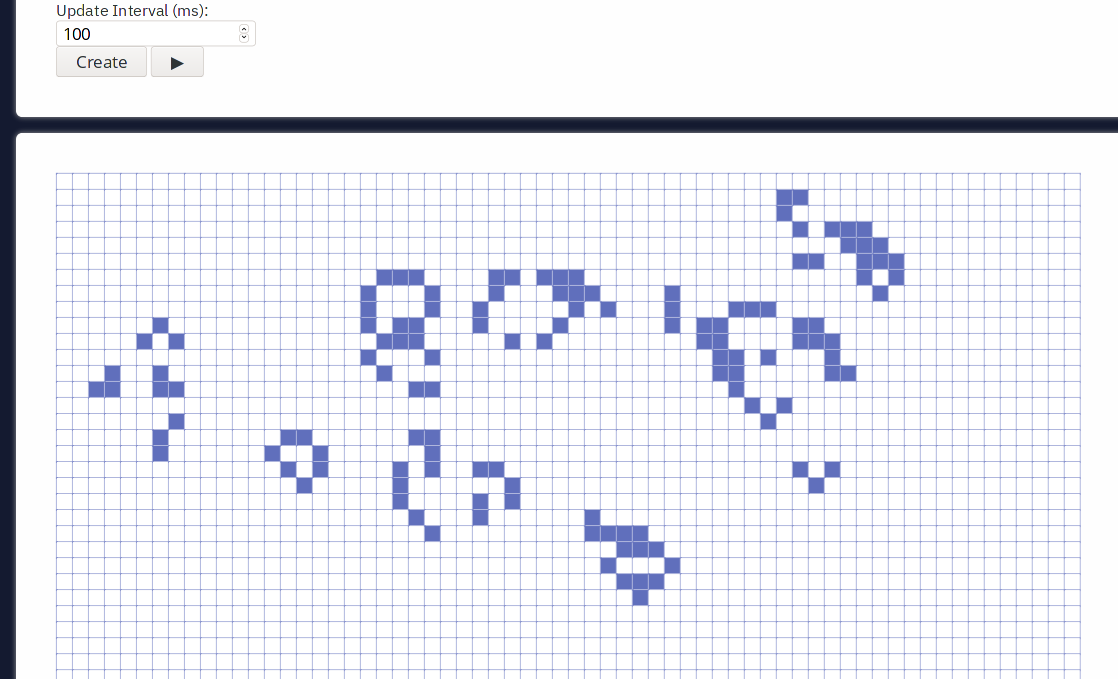
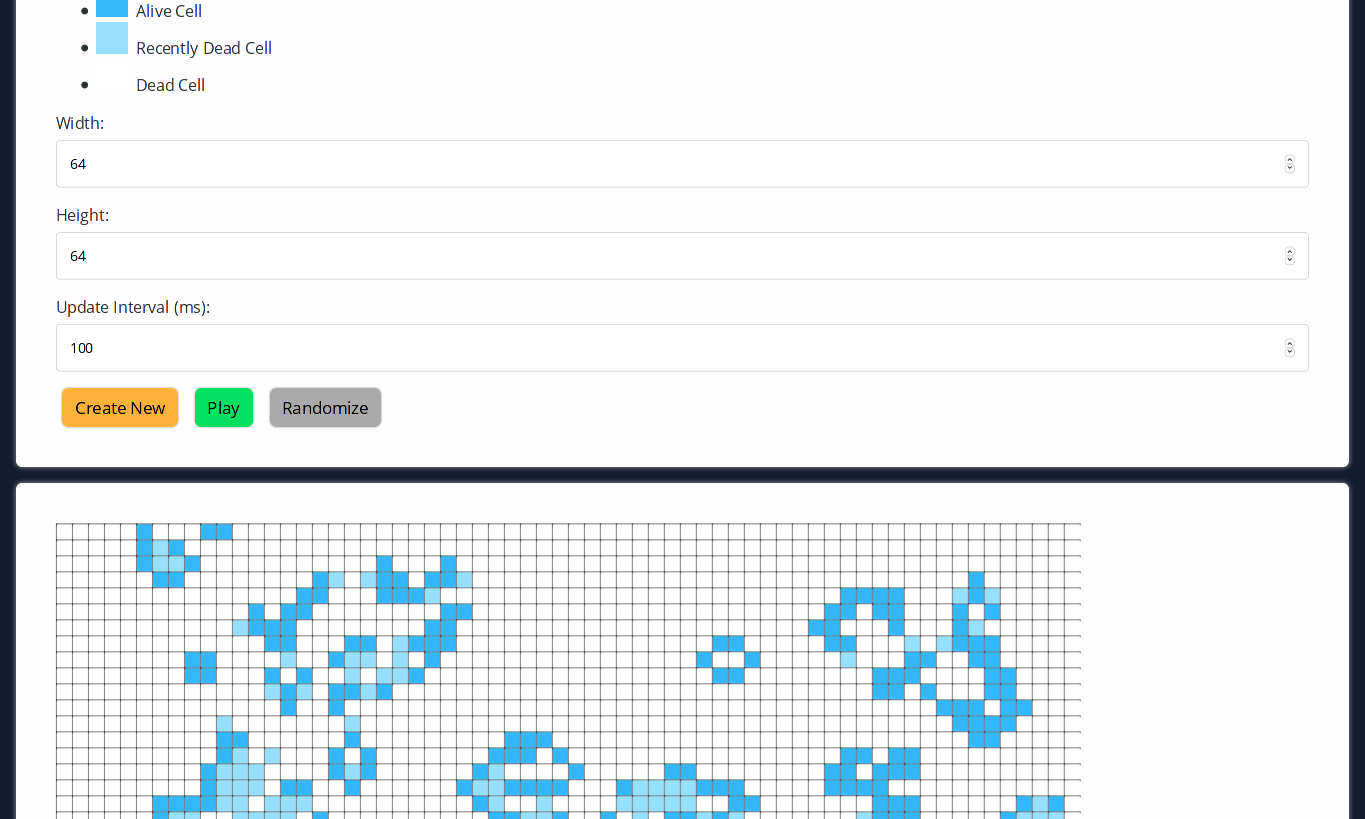
add support for showing recently dead cells

Changed region(s): [[0.0, 0.0, 1.0, 1.0]]

diff --git a/pkg/wasm_game_of_life.js b/pkg/wasm_game_of_life.js
@@ -188,7 +188,70 @@ function handleError(e) {
 function notDefined(what) { return () => { throw new Error(`${what} is not defined`); }; }
 /**
 */
-export const Cell = Object.freeze({ Dead:0,Alive:1, });
+export const Cell = Object.freeze({ Dead:0,Alive:1,RecentlyDead:2, });
+/**
+*/
+export class Color {
+
+    free() {
+        const ptr = this.ptr;
+        this.ptr = 0;
+
+        wasm.__wbg_color_free(ptr);
+    }
+    /**
+    * @returns {string}
+    */
+    static grid_color() {
+        try {
+            wasm.color_grid_color(8);
+            var r0 = getInt32Memory0()[8 / 4 + 0];
+            var r1 = getInt32Memory0()[8 / 4 + 1];
+            return getStringFromWasm0(r0, r1);
+        } finally {
+            wasm.__wbindgen_free(r0, r1);
+        }
+    }
+    /**
+    * @returns {string}
+    */
+    static alive_color() {
+        try {
+            wasm.color_alive_color(8);
+            var r0 = getInt32Memory0()[8 / 4 + 0];
+            var r1 = getInt32Memory0()[8 / 4 + 1];
+            return getStringFromWasm0(r0, r1);
+        } finally {
+            wasm.__wbindgen_free(r0, r1);
+        }
+    }
+    /**
+    * @returns {string}
+    */
+    static dead_color() {
+        try {
+            wasm.color_dead_color(8);
+            var r0 = getInt32Memory0()[8 / 4 + 0];
+            var r1 = getInt32Memory0()[8 / 4 + 1];
+            return getStringFromWasm0(r0, r1);
+        } finally {
+            wasm.__wbindgen_free(r0, r1);
+        }
+    }
+    /**
+    * @returns {string}
+    */
+    static recently_dead_color() {
+        try {
+            wasm.color_recently_dead_color(8);
+            var r0 = getInt32Memory0()[8 / 4 + 0];
+            var r1 = getInt32Memory0()[8 / 4 + 1];
+            return getStringFromWasm0(r0, r1);
+        } finally {
+            wasm.__wbindgen_free(r0, r1);
+        }
+    }
+}
 /**
 */
 export class Universe {

diff --git a/www/index.html b/www/index.html
@@ -24,6 +24,28 @@
 			<li>Press play/pause to see the generations progress</li>
 			<li>Change the update interval to speed up or slow down</li>
 			</ol>
+			<h3>Legend:</h3>
+			<ul>
+			<li>
+				<div
+					id="AliveCellColor"
+					style="width: 2rem; height: 2rem; margin-right: 0.5rem; display: inline-block;">
+				</div>Alive Cell
+			</li>
+			<li>
+				<div
+					id="RecentlyDeadCellColor"
+					style="width: 2rem; height: 2rem; margin-right: 0.5rem; display: inline-block;">
+				</div>Recently Dead Cell
+			</li>
+			<li>
+				<div
+					id="DeadCellColor"
+					style="width: 2rem; height: 2rem; margin-right: 0.5rem; display: inline-block;">
+				</div>Dead Cell
+			</li>
+			</ul>
+
 
 			<label for="CanvasWidth">Width:</label>
 			<input

diff --git a/www/index.js b/www/index.js
@@ -1,9 +1,15 @@
-import { Universe, Cell } from "wasm-game-of-life";
+import { Universe, Cell, Color } from "wasm-game-of-life";
 import { memory } from "wasm-game-of-life/wasm_game_of_life_bg";
 
 import "./index.scss";
 
 const CELL_SIZE = 15 | 0;
+
+{
+	document.getElementById("AliveCellColor").style.backgroundColor = Color.alive_color();
+	document.getElementById("RecentlyDeadCellColor").style.backgroundColor = Color.recently_dead_color();
+	document.getElementById("DeadCellColor").style.backgroundColor = Color.dead_color();
+}
 
 const canvas = document.getElementById("game-of-life-canvas");
 const ctx = canvas.getContext('2d');

diff --git a/pkg/wasm_game_of_life_bg.d.ts b/pkg/wasm_game_of_life_bg.d.ts
@@ -1,6 +1,11 @@
 /* tslint:disable */
 /* eslint-disable */
 export const memory: WebAssembly.Memory;
+export function __wbg_color_free(a: number): void;
+export function color_grid_color(a: number): void;
+export function color_alive_color(a: number): void;
+export function color_dead_color(a: number): void;
+export function color_recently_dead_color(a: number): void;
 export function __wbg_universe_free(a: number): void;
 export function universe_new(a: number, b: number, c: number, d: number): number;
 export function universe_render(a: number, b: number): void;

diff --git a/pkg/wasm_game_of_life.d.ts b/pkg/wasm_game_of_life.d.ts
@@ -5,6 +5,26 @@
 export enum Cell {
   Dead,
   Alive,
+  RecentlyDead,
+}
+export class Color {
+  free(): void;
+/**
+* @returns {string} 
+*/
+  static grid_color(): string;
+/**
+* @returns {string} 
+*/
+  static alive_color(): string;
+/**
+* @returns {string} 
+*/
+  static dead_color(): string;
+/**
+* @returns {string} 
+*/
+  static recently_dead_color(): string;
 }
 export class Universe {
   free(): void;

diff --git a/src/lib.rs b/src/lib.rs
@@ -9,9 +9,32 @@ use wasm_bindgen::JsCast;
 static ALLOC: wee_alloc::WeeAlloc = wee_alloc::WeeAlloc::INIT;
 
 const CELL_SIZE: u32 = 15;
-const GRID_COLOR: &'static str = "#606fbc";
-const ALIVE_COLOR: &'static str = "#606fbc";
+const GRID_COLOR: &'static str = "#454545";
+const ALIVE_COLOR: &'static str = "#32b9fc";
 const DEAD_COLOR: &'static str = "#FFFFFF";
+const RECENTLY_DEAD_COLOR: &'static str = "#96e0ff";
+
+#[wasm_bindgen]
+pub struct Color;
+
+#[wasm_bindgen]
+impl Color {
+    pub fn grid_color() -> String {
+        GRID_COLOR.to_string()
+    }
+
+    pub fn alive_color() -> String {
+        ALIVE_COLOR.to_string()
+    }
+
+    pub fn dead_color() -> String {
+        DEAD_COLOR.to_string()
+    }
+
+    pub fn recently_dead_color() -> String {
+        RECENTLY_DEAD_COLOR.to_string()
+    }
+}
 
 #[wasm_bindgen]
 #[repr(u8)]
@@ -19,14 +42,24 @@ const DEAD_COLOR: &'static str = "#FFFFFF";
 pub enum Cell {
     Dead = 0,
     Alive = 1,
+    RecentlyDead = 2,
 }
 
 impl Cell {
     fn toggle(&mut self) {
         *self = match *self {
             Cell::Dead => Cell::Alive,
-            Cell::Alive => Cell::Dead,
+            Cell::Alive => Cell::RecentlyDead,
+            Cell::RecentlyDead => Cell::Dead,
         };
+    }
+
+    fn get_color(&self) -> &str {
+        match *self {
+            Cell::Dead => DEAD_COLOR,
+            Cell::Alive => ALIVE_COLOR,
+            Cell::RecentlyDead => RECENTLY_DEAD_COLOR,
+        }
     }
 
     fn set_alive(&mut self) {
@@ -96,7 +129,10 @@ impl Universe {
                 let neighbor_row = (row + delta_row) % self.height;
                 let neighbor_col = (column + delta_col) % self.width;
                 let idx = self.get_index(neighbor_row, neighbor_col);
-                count += self.cells[idx] as u8;
+
+                if let Cell::Alive = self.cells[idx] {
+                    count += 1;
+                }
             }
         }
         count
@@ -157,15 +193,17 @@ impl Universe {
                 let next_cell = match (cell, live_neighbors) {
                     // Rule 1: Any live cell with fewer than two live neighbours
                     // dies, as if caused by underpopulation.
-                    (Cell::Alive, x) if x < 2 => Cell::Dead,
+                    (Cell::Alive, x) if x < 2 => Cell::RecentlyDead,
                     // Rule 2: Any live cell with two or three live neighbours
                     // lives on to the next generation.
                     (Cell::Alive, 2) | (Cell::Alive, 3) => Cell::Alive,
                     // Rule 3: Any live cell with more than three live
                     // neighbours dies, as if by overpopulation.
-                    (Cell::Alive, x) if x > 3 => Cell::Dead,
+                    (Cell::Alive, x) if x > 3 => Cell::RecentlyDead,
                     // Rule 4: Any dead cell with exactly three live neighbours
                     // becomes a live cell, as if by reproduction.
+                    (Cell::RecentlyDead, 3) => Cell::Alive,
+                    (Cell::RecentlyDead, _) => Cell::Dead,
                     (Cell::Dead, 3) => Cell::Alive,
                     // All other cells remain in the same state.
                     (otherwise, _) => otherwise,
@@ -202,9 +240,6 @@ impl Universe {
     }
 
     pub fn draw_cells(&self) {
-        let alive_color: JsValue = JsValue::from_str(ALIVE_COLOR);
-        let dead_color: JsValue = JsValue::from_str(DEAD_COLOR);
-
         let context = self.get_context();
         context.begin_path();
 
@@ -212,11 +247,8 @@ impl Universe {
             for col in 0..self.width {
                 let idx = self.get_index(row, col);
 
-                context.set_fill_style(if self.cells[idx] == Cell::Dead {
-                    &dead_color
-                } else {
-                    &alive_color
-                });
+                let color_js = JsValue::from_str(self.cells[idx].get_color());
+                context.set_fill_style(&color_js);
 
                 context.fill_rect(
                     (col * (CELL_SIZE + 1) + 1).into(),

diff --git a/README.md b/README.md
@@ -2,6 +2,8 @@
 
 A simple game of life game written with Rust, WebAssembly and Javascript.
 
+![Alt text](screenshot.png?raw=true "game-of-life")
+
 ## Rust/WebAssembly
 
 ### Building
